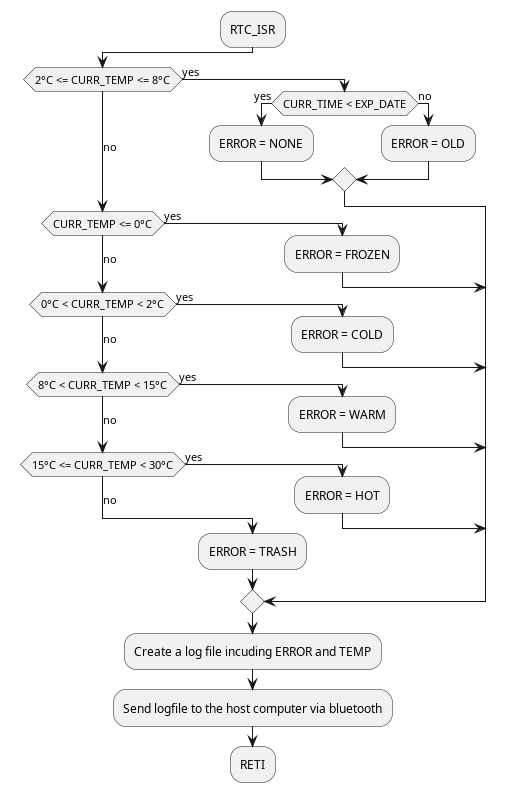
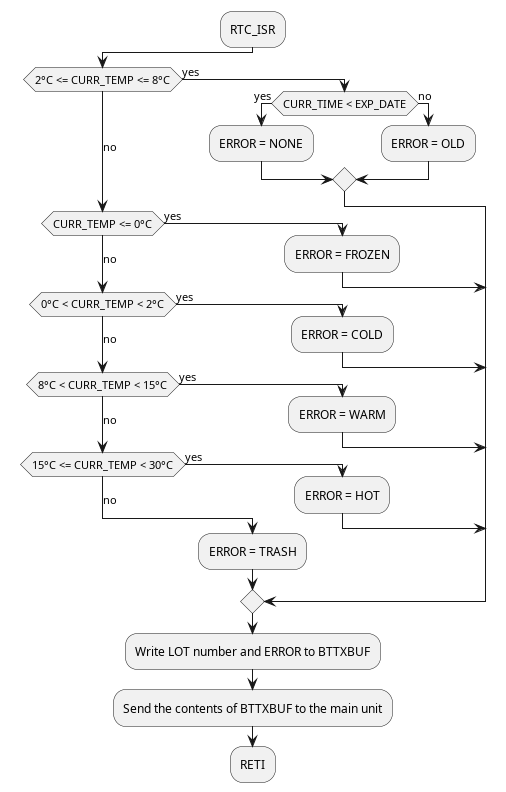
Finished Module analysis

Changed region(s): [[0.2372, 0.8182, 0.7115, 0.8485], [0.2964, 0.8788, 0.7411, 0.9091], [0.7411, 0.8182, 0.7708, 0.8485]]

diff --git a/Final Project Report/Modular Design/Sub-Unit/sub-unit.tex b/Final Project Report/Modular Design/Sub-Unit/sub-unit.tex
@@ -1,11 +1,69 @@
 \subsection{Sub Unit}
 \subsubsection{Block Diagram}
+\createfigurewsvg{../Modular Design/Sub-Unit/Figures/bdv5-sub.svg}{Sub Unit Architectural Diagram}{fig:bd-module-sub-unit}
 \subsubsection{State Diagram}
+\input{../Modular Design/Sub-Unit/Figures/sub-unit-fsd.tex}
 \subsubsection{Schematic Diagram}
-\subsubsection{Power Analysis}
-\subsubsection{Loading, Driving, and Compatibility}
+  \begin{center}
+  \begin{figure}[H]
+    \includegraphics[width=\pdfpagewidth,height=0.65\textheight]{../Modular Design/Sub-Unit/Figures/sub-unit-and-psu.png}
+    \caption{Sub Unit with PSU Schematic}
+    \label{fig:sub-with-psu-schematic}
+  \end{figure}
+  \end{center}
+  \end{landscape}
+\subsubsection{Power Analysis, Loading, Driving, and Compatibility}
+In order to validate the compatibility of the MCU (MSP430FR2000IPW16) and Bluetooth module (HM-10S) with respect to their voltage levels and communication protocols, it is necessary to verify their respective related specifications.\\
+The MSP430FR2000IPW16 showcases flexibility in terms of voltage adaptability, functioning within a supply range ranging from 1.8V to 3.6V as seen in page 1 of its data sheet \cite{MSP430FR2000IPW16}. On the other hand, the HM-10 Bluetooth module has an input voltage from 3.6\si{\V} to 6\si{\V} according to it's product listing \cite{AmazonComHiLetgo}. Due to this the MSP430FR2110 has to be supplied by the 3.3\si{V} output of the PSU and the HM-10 has to be supplied by the 5\si{\V} output of the power supply.\\
+In order to connect both devices to each other, for communication, the best protocol to use will be UART. The MSP430FR2000 has 4 pins for UART communication using the eUSCI modules, which can detect automatically the baud-rate to be used. According to the datasheet for the HM-10 module\cite{AmazonComHiLetgo}, it can select the baud-rate to be used, which ranges from a minimum 1200 to a maximum of 230400. In the datasheet of the MSP430FR2000, the eUSCI clock frequency, UART mode, can reach a maximum of 5MHz, which means it can reach the maximum baud-rate of the Bluetooth module and can also select lower baud-rates, according to the formula:
+\begin{equation}
+	Clk Frequency = Baudrate \cdot 16
+\end{equation}
+This means if we select the maximum baud-rate of the HM-10 module, which is 230400, using the formula, we would need a frequency of 3.68MHz, which is still below the maximum frequency the eUSCI module on the MSP430FR2000. This will allow us to be able to use the HM-10 communicate via UART with the MSP430FR2000.\\
+In order to calculate the resistor values for the green and red LEDs we used the following formula:
+\begin{equation}
+R = \frac{V_{cc} - V_{f}}{I_{f}}
+\end{equation}
+Where VCC is 3.3\si{\V} $V_{f}$ is the forward voltage for each LED and $I_{f}$ is the forward current for each LED. For the RED LED \cite{SSLLX3052ID}, it has a 2\si{\V} forward voltage and the MSP430FR200 has a max I/O current of 2\si{\mA}, this gives us a resistor value of  650\si{\ohm} in order to drive this LED successfully and within MCU maximum parameters.\\
+Finally, for the temperature sensor (U5) \cite{TMP36GT9Z} and operational amplifier (U4) \cite{MCP6022I}, they both can be supplied by a 3.3\si{\V} supply and thus are compatible. Since the temperature sensor range for this application will be from 0\si{\celsius} to 40\si{\celsius}, at a resolution of 0.1\si{\celsius}, since there is an offset of 0.5\si{\V} by the temperature sensor gives us a range of 900 unique values so that the temperature sensor can reach its full negative temperature range. At 40\si{\celsius} the temperature sensor will be at 900\si{\milli\volt}, setting the ADC to use a 1.5\si{\V} reference. gives us a $A_{v}$ of 1.666. Setting up the op amp in a non inverting configuration, using 1\si{\kilo\ohm}, 620\si{\ohm}, 39\si{\ohm} and 5.1\si{\ohm} resistors will yield a $A_{v}$ of 1.6642.
 \subsubsection{Base Times and Timing Analysis}
+In order to connect both devices to each other, for communication, the best protocol to use will be UART. The MSP430FR2000 has 4 pins for UART communication using the eUSCI modules, which can detect automatically the baud-rate to be used. According to the datasheet for the HM-10 module\cite{AmazonComHiLetgo}, it can select the baud-rate to be used, which ranges from a minimum 1200 to a maximum of 230400. In the datasheet of the MSP430FR2000, the eUSCI clock frequency, UART mode, can reach a maximum of 5MHz, which means it can reach the maximum baud-rate of the Bluetooth module and can also select lower baud-rates, according to the formula:
+\begin{equation}
+	Clk Frequency = Baudrate \cdot 16
+\end{equation}
+This means if we select the maximum baud-rate of the HM-10 module, which is 230400, using the formula, we would need a frequency of 3.68MHz, which is still below the maximum frequency the eUSCI module on the MSP430FR2000. This will allow us to be able to use the HM-10 communicate via UART with the MSP430FR2000.\\
 \subsubsection{Software Support}
+\createfigurel{../Modular Design/Sub-Unit/Figures/sub-unit-main-function.png}{Sub Unit Main Function}{fig:sub-unit-main-function}
+\createfigurel{../Modular Design/Sub-Unit/Figures/sub-unit-rtc-isr.png}{Sub Unit RTC ISR}{fig:sub-unit-rtc-isr}
+This is the error verification subroutine that runs periodically, it first checks weather the temperature detected from the ADC is within 2\si{\celsius} to 8\si{\celsius}, if this check fails it determines which temperature range is detected. Then writes the LOT number and error code to the BTTXBUF and enables the UCTXIFG.
+\createfigurew{../Modular Design/Sub-Unit/Figures/sub-unit-bluetooth-isr.png}{Sub Unit Bluetooth ISR}{fig:sub-unit-bluetooth-isr}
+If the interrupt is from the receiver, it will write the incoming message to the BTRXBUF until the UART goes idle. If the interrupt is from the transmitter, it first checks weather the buffer has contents, if it does, it transmits the message until a null terminator character.
 \subsubsection{Memory Requirements}
+The program itself consists of 300 instructions, which assuming a 1 to 10 conversion ration between C and Assembly language yields a total of 3000 bytes of program data. Since the main unit's source code has two buffers for RX and TX of 83 bytes each plus the buffer for lot number (30 bytes), the string versions of the error enums (56 bytes), the error enum (1 byte) and the error state (1 byte) gives us a size of 344 bytes of data memory.
 \subsubsection{Reliability \& Design Criteria}
+The sub units were designed to be in a low power state most of the time, therefore they only had to be able to check if there was an error once or twice a day. But what they needed to be was as power efficient as possible. They are designed to operate for more than 2 years without charging the batteries. Therefore a low power microcontroller was chosen (MSP430FR2300) along with a BLE bluetooth module and a 2600\si{\milli\ampere\hour} battery was chosen to meet these requirements.
+\begin{landscape}
 \subsubsection{Level of Completion}
+  \begin{table}[!ht]
+    \begin{tabularx}{\textwidth}{|X|X|}
+      \hline
+      \multicolumn{2}{|X|}{Main Unit}\\
+      \hline
+      Integration&\begin{itemize}
+                    \item Power Supply
+                    \item Main Unit
+                  \end{itemize}\\
+                  \hline
+      Functionality&\begin{itemize}
+          \item ADC 12 Initialization using VEREF+ and VEREF- reference and input channel 7.
+          \item UART initialization at 9600 baud with receiver interrupts enabled.
+          \item RTC initialization at once twice per day.
+          \item RTC runs the ADC 100 times and averages the results and checks if the temperature meets compliance.
+          \item If an error is raised, the UART is activated and sends an error along with the lot number.
+        \end{itemize}\\
+      \hline
+    \end{tabularx}
+    \caption{Sub Unit Level of Completion Table}
+    \label{tab:sub-unit-completion-table}
+  \end{table}
+\end{landscape}

diff --git a/Final Project Report/Modular Design/Main-Unit/main-unit.tex b/Final Project Report/Modular Design/Main-Unit/main-unit.tex
@@ -39,14 +39,14 @@ The main function is used to:
     \item Enable global interrupts.
     \item Activate low power mode.
   \end{itemize}
-\createfigurel{../Modular Design/Main-Unit/Figures/main-unit-rtc-isr.png}{Main Unit RTC ISR}{fig:main-unit-rtc-isr}
-This is the error verification subroutine that runs periodically, it first checks weather the temperature detected from the ADC is within 2\si{\celsius} to 8\si{\celsius}, if this check fails it determines which temperature range is detected. Then checks if mains power is available and assigns a boolean variable depending on the availability of mains power. Finally writes the current time, power status, error from the sub unit (if any are raised) to the bluetooth TX buffer
+\createfigurew{../Modular Design/Main-Unit/Figures/main-unit-rtc-isr.png}{Main Unit RTC ISR}{fig:main-unit-rtc-isr}
+This is the error verification subroutine that runs periodically, it checks if mains power is available and assigns a boolean variable depending on the availability of mains power and then captures the current time from the RTC. Then writes the current time, power status, error from the sub unit (if any are raised) to the bluetooth TX buffer
 \createfigurew{../Modular Design/Main-Unit/Figures/main-unit-bluetooth-isr.png}{Main Unit Bluetooth ISR}{fig:main-unit-bluetooth-isr}
-If the interreupt is from the transmitter, it will write the incoming message to the BTRXBUF until the UART goes idle. If the interrupt is from the transmitter, it first checks wether if the buffer has contents, if it does, it transmits the message until a null terminator character.
+If the interrupt is from the receiver, it will write the incoming message to the BTRXBUF until the UART goes idle. If the interrupt is from the transmitter, it first checks weather the buffer has contents, if it does, it transmits the message until a null terminator character.
 \subsubsection{Memory Requirements}
 The program itself consists of 300 instructions, which assuming a 1 to 10 conversion ration between C and Assembly language yields a total of 3000 bytes of program data. Since the main unit's source code has two buffers for RX and TX of 83 bytes each plus the buffer for lot number (30 bytes), the string versions of the error enums (56 bytes), the error enum (1 byte) and the error state (1 byte) gives us a size of 344 bytes of data memory.
 \subsubsection{Reliability \& Design Criteria}
-The main unit was the backbone of the whole system, without it there cannot be communication from the sub units to the main unit. Therefore, reliability for the main unit has to be at 100\%. Using a battle tested platform such as the MSP430FR2310 was a paramount choice in assuring the reliability of the system that ensures the safety of life saving medication. Power efficiency for the main unit is not such of a great concern since it is ideally will operate on mains power always but since the power supply has a battery backup system it can virtually guarantee 100\% reliability.
+The main unit was the backbone of the whole system, without it there cannot be communication from the sub units to the main unit. Therefore, reliability for the main unit has to be at 100\%. Using a battle tested platform such as the MSP430FR2310 was a paramount choice in assuring the reliability of the system that ensures the safety of life saving medication. Power efficiency for the main unit is not such of a great concern since it will ideally will operate on mains power always but since the power supply has a battery backup system it can virtually guarantee 100\% reliability.
 \subsubsection{Level of Completion}
 \begin{landscape}
   \begin{table}[!ht]

diff --git a/Final Project Report/Modular Design/Sub-Unit/Figures/sub-unit-fsd.tex b/Final Project Report/Modular Design/Sub-Unit/Figures/sub-unit-fsd.tex
@@ -1,3 +1,4 @@
+\begin{landscape}
 \begin{figure}[!ht]
 \begin{center}
   \begin{subfigure}{\textwidth}
@@ -73,4 +74,3 @@
 \label{fig:sub-unit-fsd}
 \end{center}
 \end{figure}
-\end{landscape}
